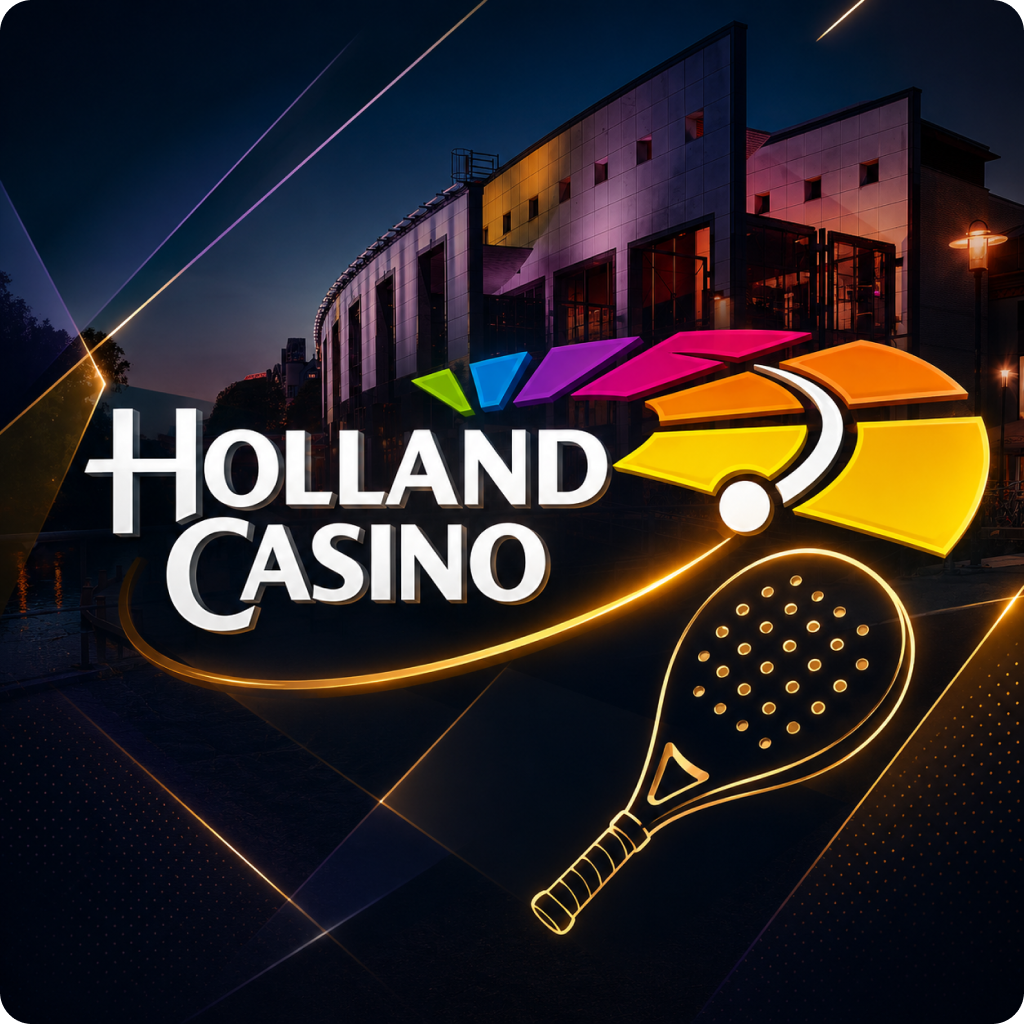
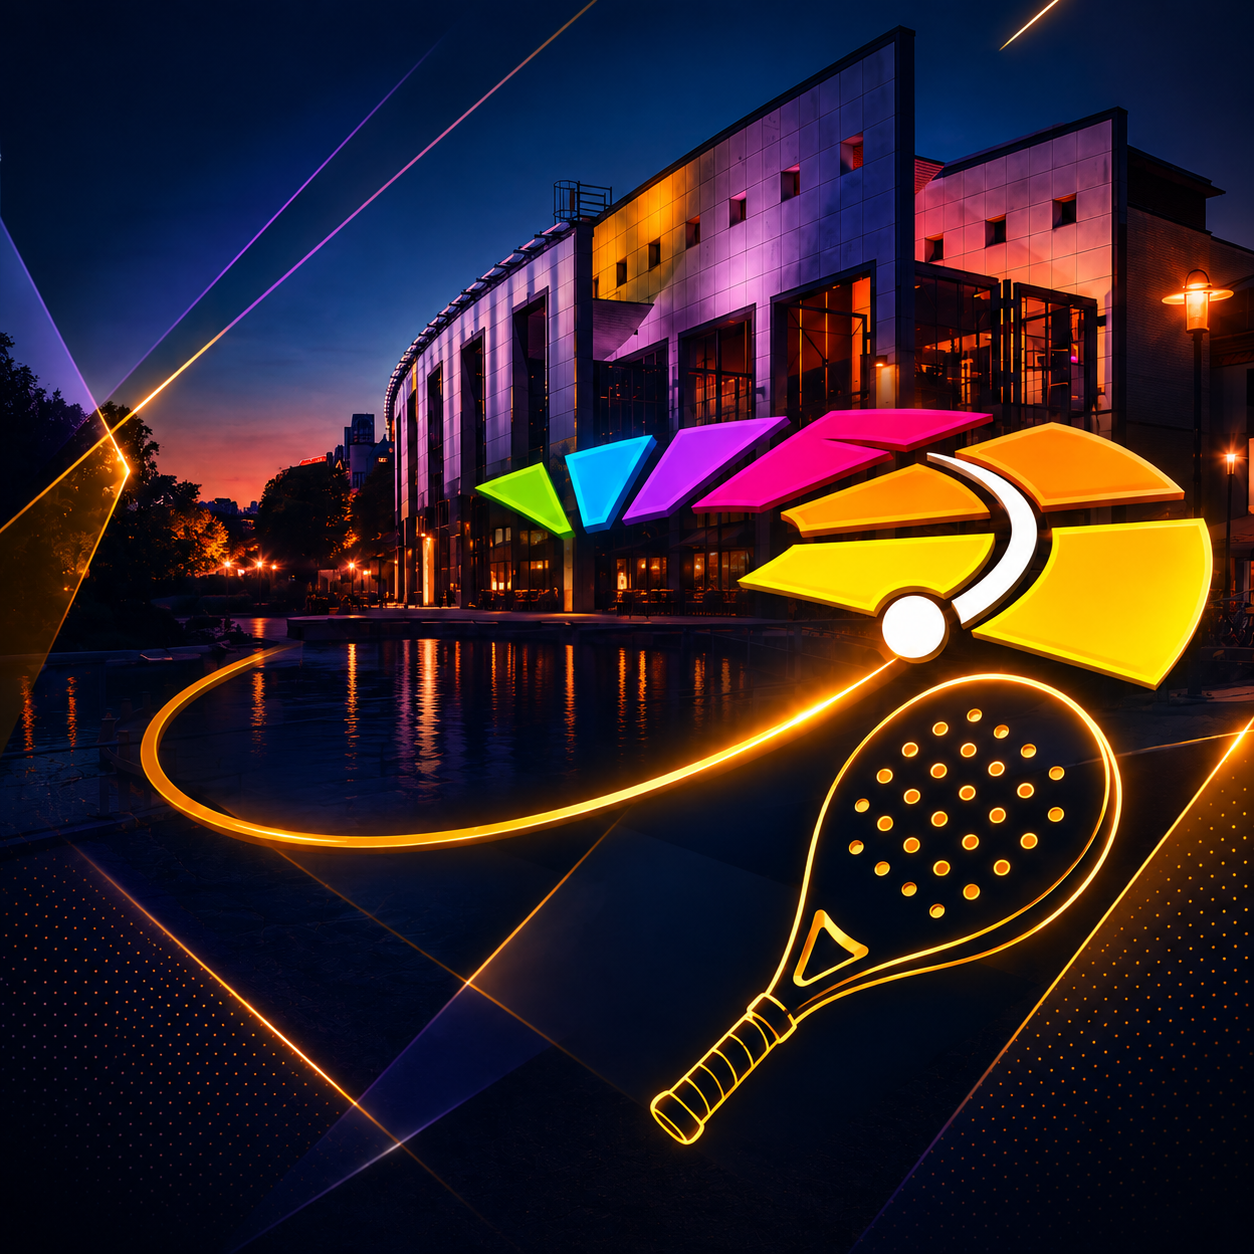
Update Android identity and branding; fix autolinking cache

diff --git a/src/screens/assistant/AssistantScreen.tsx b/src/screens/assistant/AssistantScreen.tsx
@@ -22,7 +22,7 @@ export function AssistantScreen() {
     <Screen>
       <View style={styles.header}>
         <Image source={require('../../assets/app-icon.png')} style={styles.avatar} />
-        <View><Text style={styles.title}>Club Assistant</Text><Text style={styles.status}><Text style={styles.online}>●</Text> Online · Holland Casino Padel Connect</Text></View>
+        <View><Text style={styles.title}>Club Assistant</Text><Text style={styles.status}><Text style={styles.online}>●</Text> Online · Holland Padel Connect</Text></View>
       </View>
       <View style={styles.messages}>
         {state.assistantMessages.map(message => <MessageBubble key={message.id} message={message} />)}

diff --git a/src/context/AppContext.tsx b/src/context/AppContext.tsx
@@ -16,7 +16,7 @@ const initialState: AppState = {
     {
       id: 'welcome',
       role: 'assistant',
-      text: "Welcome to Holland Casino Padel Connect. I'm your Club Assistant. I can help you with Padel rules and techniques, scoring, Academy lessons, your Scorebook, club services, parking reservations, and more.",
+      text: "Welcome to Holland Padel Connect. I'm your Club Assistant. I can help you with Padel rules and techniques, scoring, Academy lessons, your Scorebook, club services, parking reservations, and more.",
       createdAt: new Date('2026-09-03T18:30:00').toISOString(),
     },
   ],

diff --git a/src/screens/club/ClubScreen.tsx b/src/screens/club/ClubScreen.tsx
@@ -16,7 +16,7 @@ export function ClubScreen({navigation}: any) {
   );
   return (
     <Screen>
-      <SectionTitle title="Club" subtitle="Holland Casino Padel Connect" />
+      <SectionTitle title="Club" subtitle="Holland Padel Connect" />
       <View style={styles.tabs}>
         {(['Offers', 'Services', 'Parking'] as ClubTab[]).map(item => <Pressable key={item} onPress={() => setTab(item)} style={[styles.tab, tab === item && styles.tabActive]}><Text style={[styles.tabText, tab === item && styles.tabTextActive]}>{item}</Text></Pressable>)}
       </View>

diff --git a/src/navigation/AppNavigator.tsx b/src/navigation/AppNavigator.tsx
@@ -98,7 +98,7 @@ function SplashScreen({onDone}: {onDone: () => void}) {
           />
         </Animated.View>
         <Animated.View style={{opacity: textOpacity, transform: [{translateY: textOffset}]}}>
-          <Text style={styles.splashTitle}>Holland Casino</Text>
+          <Text style={styles.splashTitle}>Holland</Text>
           <Text style={styles.splashSubtitle}>PADEL CONNECT</Text>
         </Animated.View>
       </View>

diff --git a/android/app/src/main/java/com/hollandpadel/connect/MainActivity.kt b/android/app/src/main/java/com/hollandpadel/connect/MainActivity.kt
@@ -1,4 +1,4 @@
-package com.hollandcasinopadelconnect
+package com.hollandpadel.connect
 
 import com.facebook.react.ReactActivity
 import com.facebook.react.ReactActivityDelegate

diff --git a/android/app/src/main/java/com/hollandpadel/connect/MainApplication.kt b/android/app/src/main/java/com/hollandpadel/connect/MainApplication.kt
@@ -1,4 +1,4 @@
-package com.hollandcasinopadelconnect
+package com.hollandpadel.connect
 
 import android.app.Application
 import com.facebook.react.PackageList
